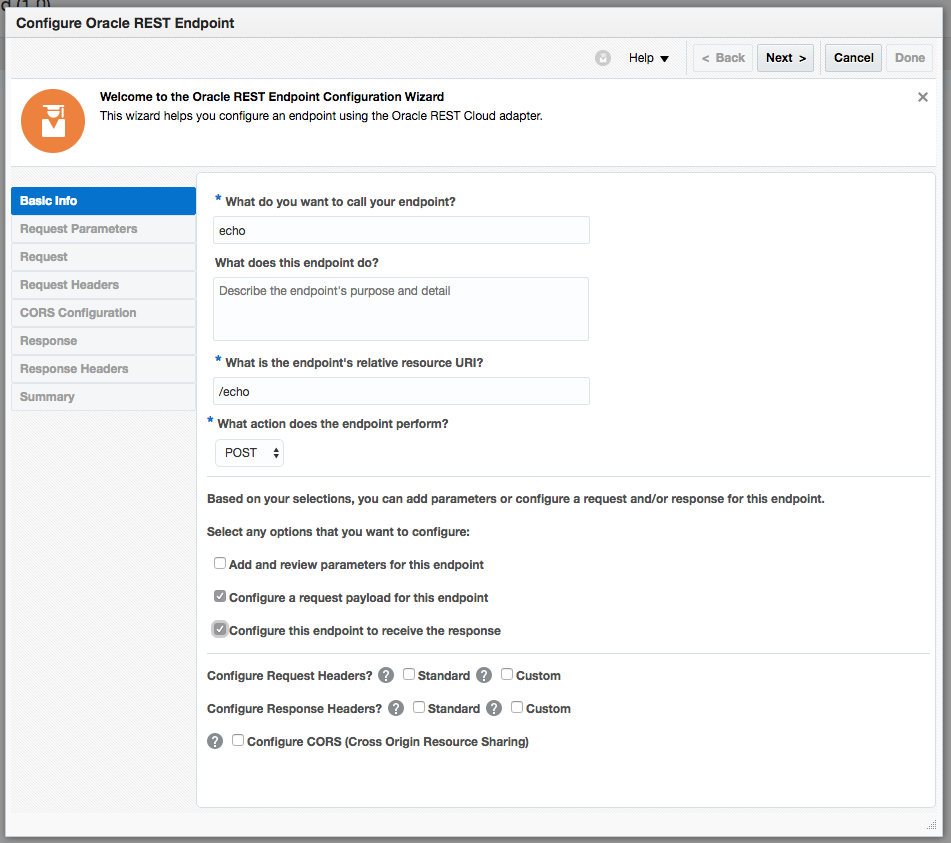
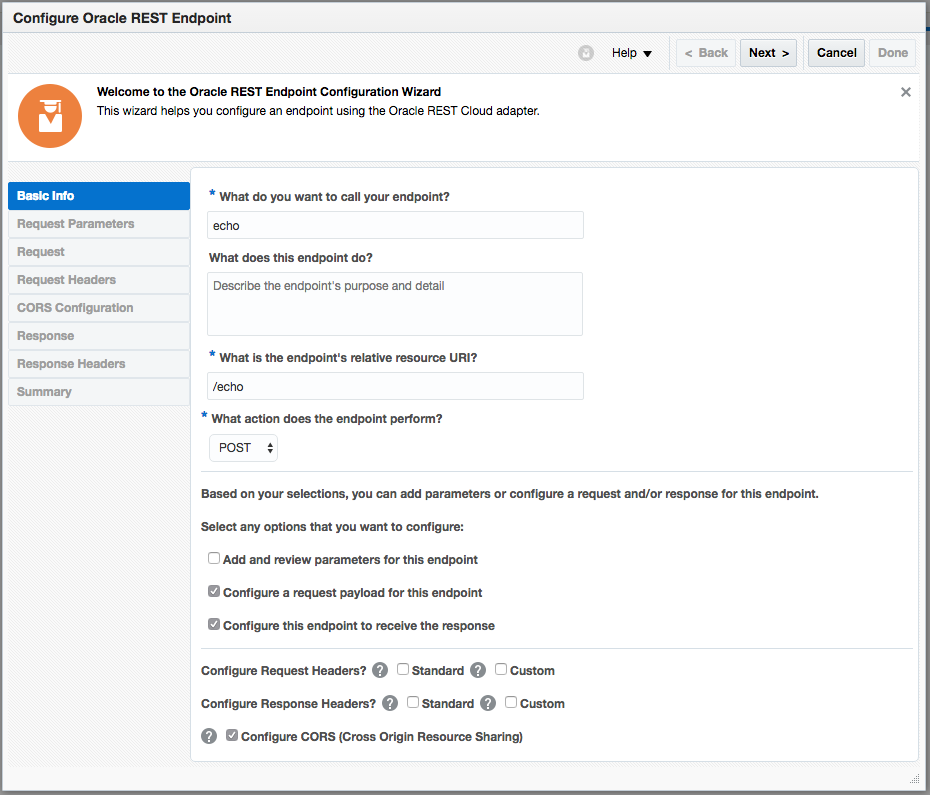
Lab 200 update

Changed region(s): [[0.0, 0.0, 1.0, 0.9962], [0.1871, 0.4226, 0.8731, 0.9358], [0.5925, 0.4528, 0.6237, 0.483]]

diff --git a/deep-dive-ics/ics200.md b/deep-dive-ics/ics200.md
@@ -117,7 +117,7 @@ Let’s start by logging into the Oracle Cloud account using your allocated user
 
 ![](images/200/image015.png)
 
-**3.6** In the **Trggers** panel, find your connection, under **REST**
+**3.6** In the **Trggers** panel, expand the **REST(nn)** heading, and find your connection, under **REST**
 
 Drag and drop your connection **UserXX REST** in to the circle with plus sign, you will see the plus sign twirling when ready to drop 
  
@@ -151,9 +151,20 @@ Drag and drop your connection **UserXX REST** in to the circle with plus sign, y
 
 **3.10** Click on **Next >** to move on to the _Response_
 
-![](images/200/image014.png)
+![](images/200/image021.png)
+
+**3.11** Select **JSON Sample**, and click on **<<< inline >>>** to enter sample JSON
 - Now you can see your connection in the configured connection list
 
+**3.12** Enter the following JSON into the **Enter Sample JSON**, and click **Ok**
+
+```javascript
+{
+    "return": "String to echo"
+}
+```
+
+![](images/200/image022.png)
 
 
 - This Lab is now completed.
